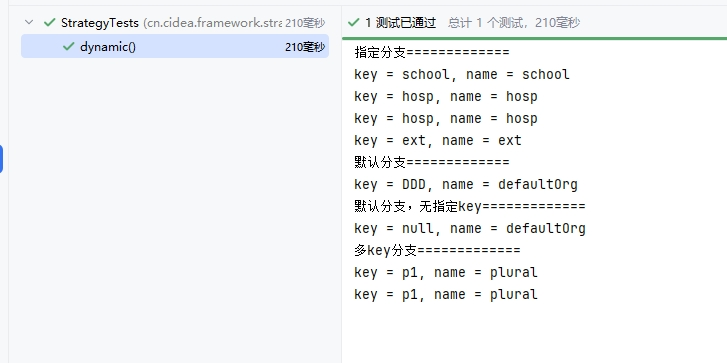
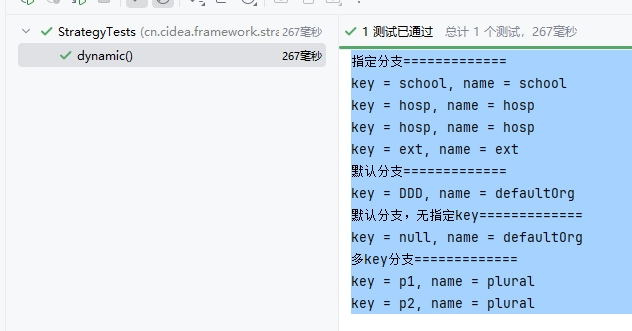
update: 文档更新至代码最新版

diff --git a/README.md b/README.md
@@ -4,7 +4,7 @@
 
 **环境：**Spring2.2.0及以上
 
-**使用场景：**在环境、出入参、需求等的影响下，接口的一种行为往往具有多套不同的实现。
+**使用场景：**在环境、出入参、需求等的影响下，接口的同一种行为往往具有多套不同的实现。如接口γ，在不同环境下有：A；AB；CDE。
 
 > 在互联网医院项目中，不同平台、机构通常有很多个性化的需求。
 >
@@ -121,7 +121,7 @@ void dynamic() {
     System.out.println("多key分支=============");
     DefaultDynamicStrategyRouter.routeKey.set("p1");
     System.out.println("key = "+ DefaultDynamicStrategyRouter.routeKey.get() + ", name = " + implBean.getName());
-    DefaultDynamicStrategyRouter.routeKey.set("p1");
+    DefaultDynamicStrategyRouter.routeKey.set("p2");
     System.out.println("key = "+ DefaultDynamicStrategyRouter.routeKey.get() + ", name = " + implBean.getName());
 }
 ```
